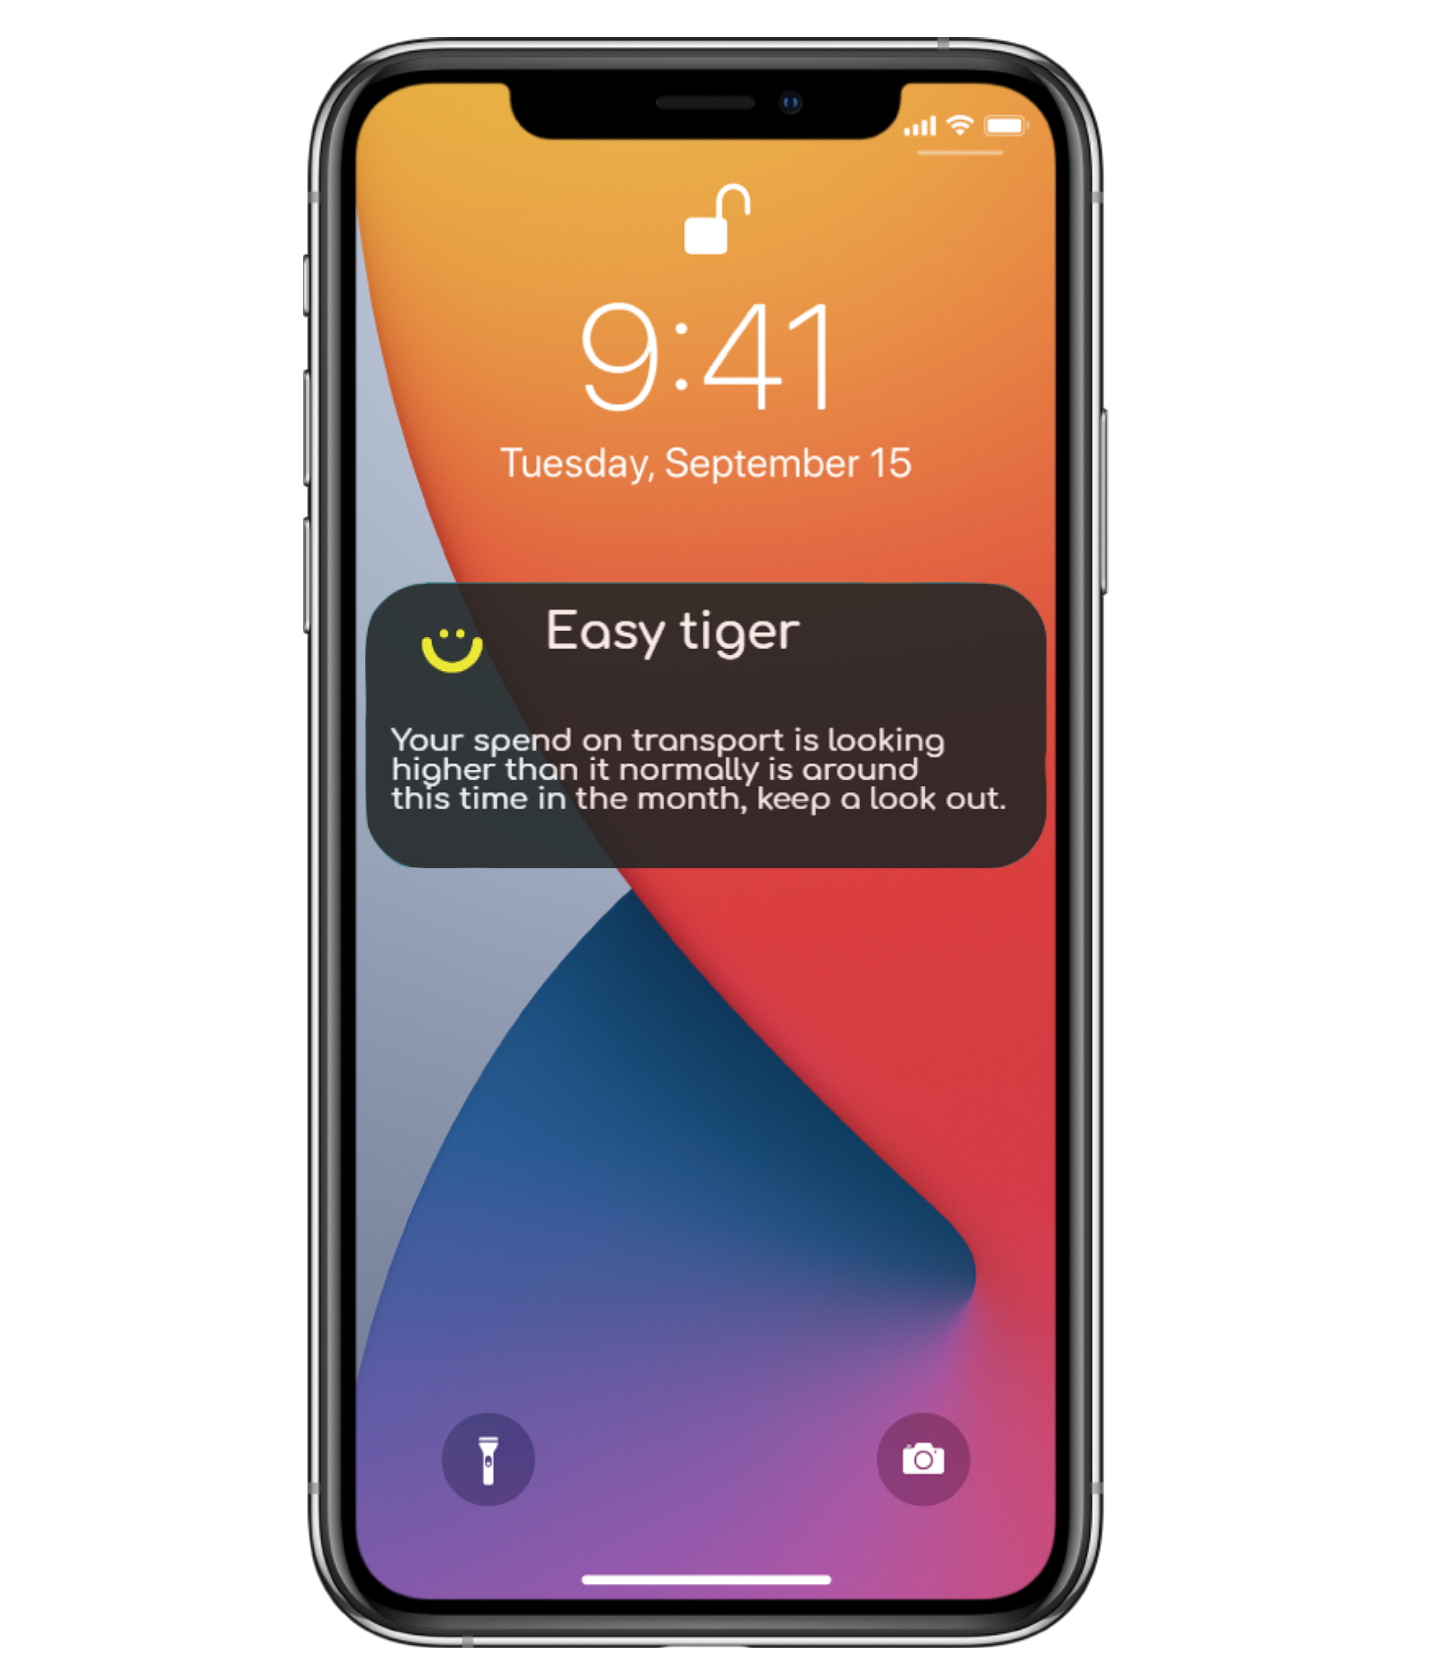
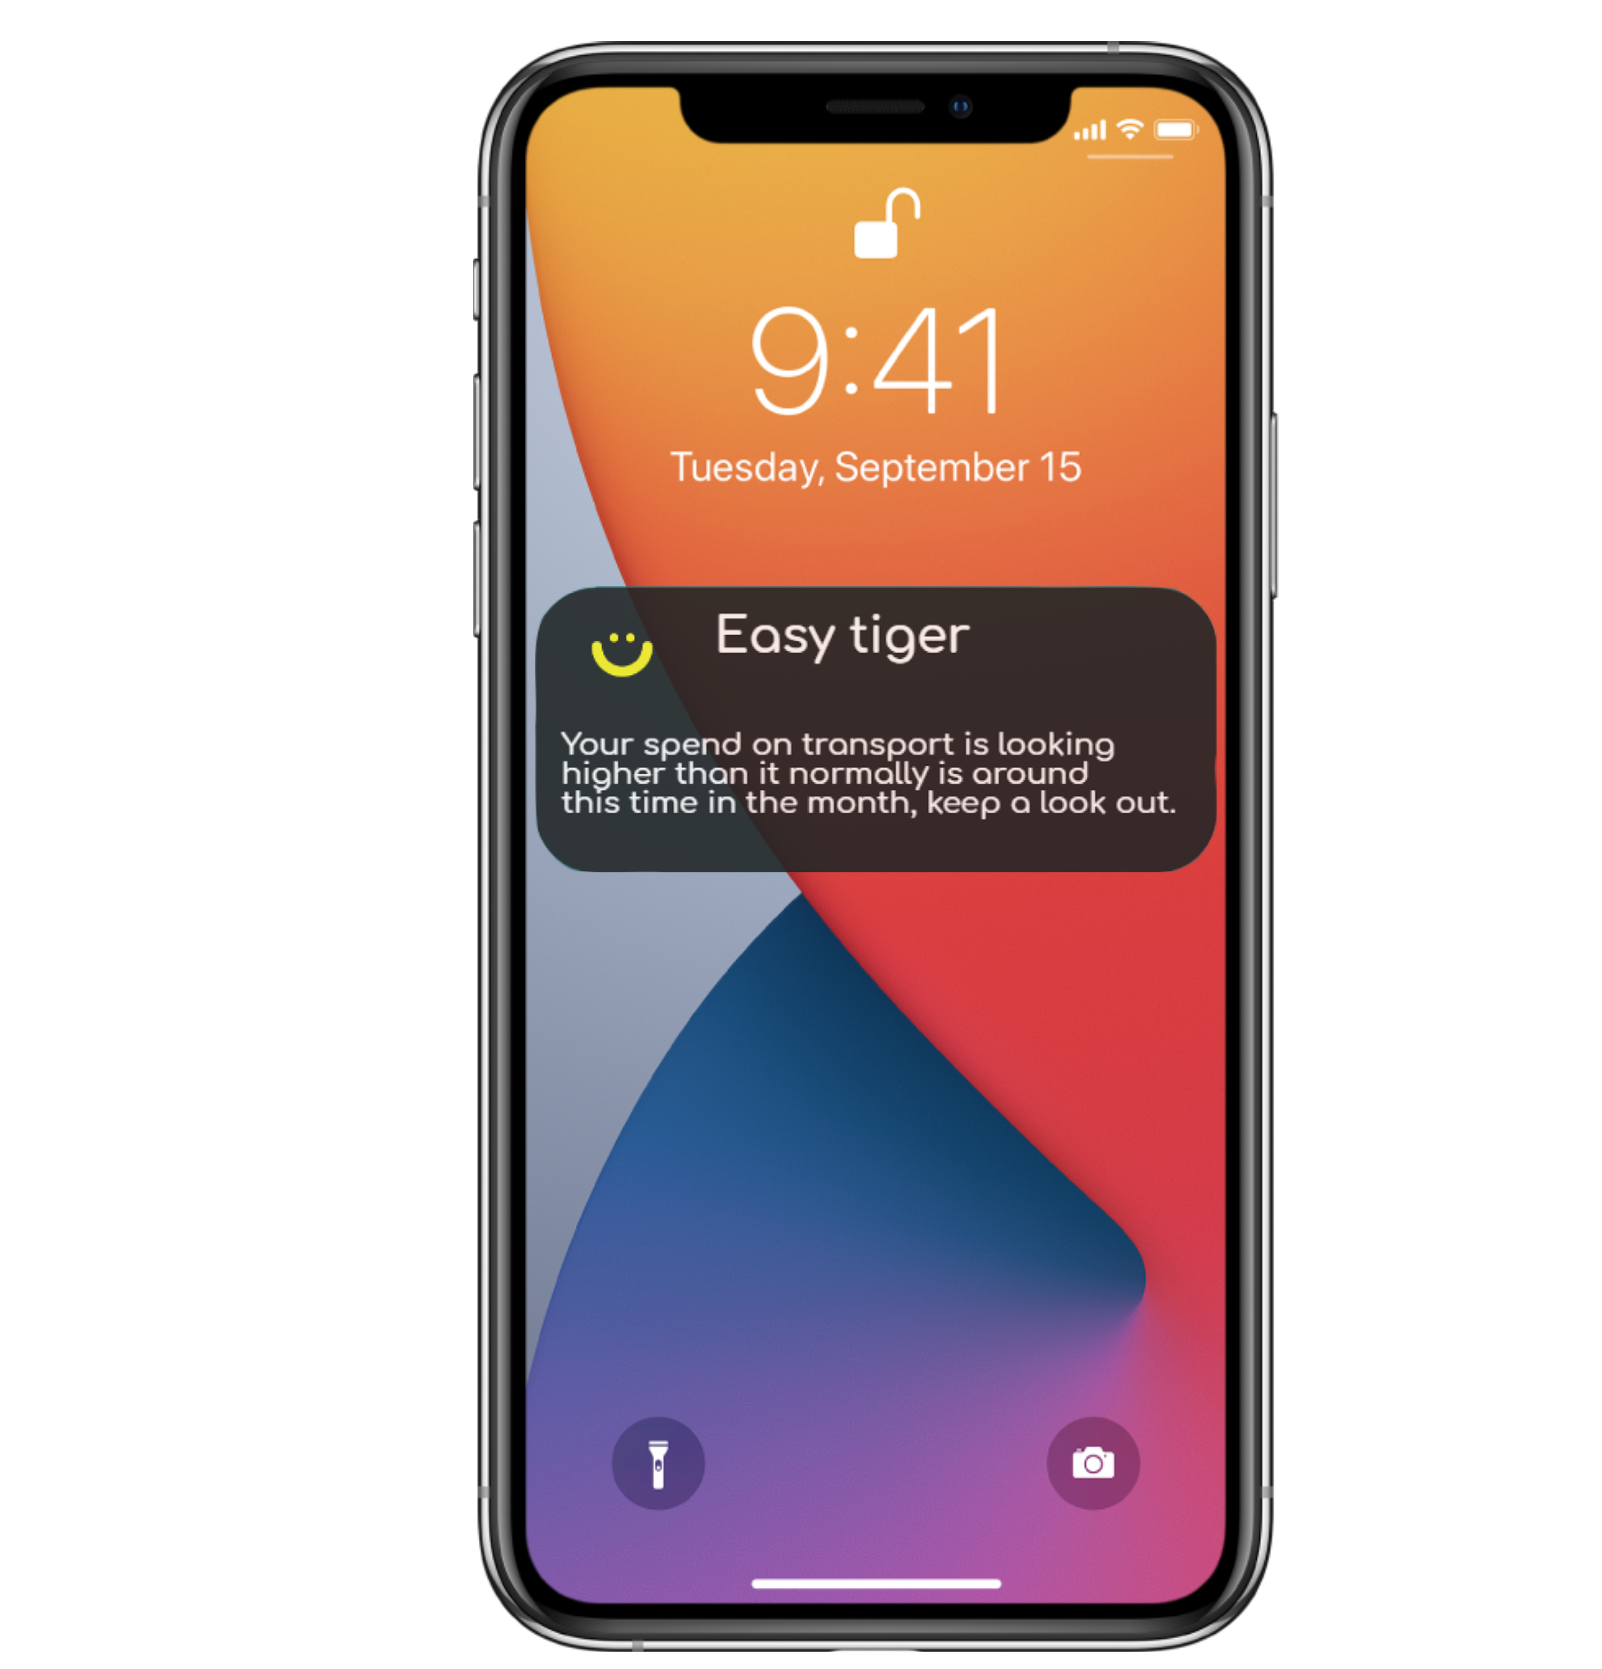
updated graphics and colours

Changed region(s): [[0.1875, 0.0, 0.8125, 0.997]]

diff --git a/index.html b/index.html
@@ -148,6 +148,30 @@
                     <!-- Card -->
                     <div class="card">
                         <div class="card-image">
+                            <i class="fas fa-chart-line fa-4x icon"></i>
+                        </div>
+                        <div class="card-body">
+                            <h5 class="card-title">Forecasts</h5>
+                            <p>Get forecasts on your spending habits powered by machine learning and AI.</p>
+                        </div>
+                    </div>
+                    <!-- end of card -->
+
+                    <!-- Card -->
+                    <div class="card">
+                        <div class="card-image">
+                            <i class="fas fa-bell fa-4x icon"></i>
+                        </div>
+                        <div class="card-body">
+                            <h5 class="card-title">Alerts and reminders</h5>
+                            <p>Get alerted when you need to hold your horses and stay within your budget</p>
+                        </div>
+                    </div>
+                    <!-- end of card -->
+
+                    <!-- Card -->
+                    <div class="card">
+                        <div class="card-image">
                             <i class="fas fa-thumbtack fa-4x icon img-fluid"></i>
                         </div>
                         <div class="card-body">
@@ -165,29 +189,6 @@
                         <div class="card-body">
                             <h5 class="card-title">Budget planner</h5>
                             <p>Simply add your own spend categories and update them as you like and we’ll take care of the rest</p>
-                        </div>
-                    </div>
-                    <!-- end of card -->
-
-                    <!-- Card -->
-                    <div class="card">
-                        <div class="card-image">
-                            <i class="fas fa-bell fa-4x icon"></i>
-                        </div>
-                        <div class="card-body">
-                            <h5 class="card-title">Alerts and reminders</h5>
-                            <p>Get alerted when you need to hold your horses and stay within your budget</p>
-                        </div>
-                    </div>
-                    <!-- end of card -->
-                     <!-- Card -->
-                     <div class="card">
-                        <div class="card-image">
-                            <i class="fas fa-chart-line fa-4x icon"></i>
-                        </div>
-                        <div class="card-body">
-                            <h5 class="card-title">Forecasts</h5>
-                            <p>Get forecasts on your spending habits powered by machine learning and AI.</p>
                         </div>
                     </div>
                     <!-- end of card -->
@@ -224,16 +225,16 @@
     <div class="basic-3">
         <div class="container">
             <div class="row">
+                <div class="col-lg-5">
+                    <div class="text-container">
+                        <h2>Get personalized tips and insights</h2>
+                        <p>Helping you spend, save and manage your money better</p>
+                    </div> <!-- end of text-container -->
+                </div> <!-- end of col -->
                 <div class="col-lg-7">
                     <div class="image-container">
                         <img class="img-fluid" src="images/images/raw/easy-tiger.png" alt="alternative">
                     </div> <!-- end of image-container -->
-                </div> <!-- end of col -->
-                <div class="col-lg-5">
-                    <div class="text-container">
-                        <h2>Get personalized tips and insights</h2>
-                        <p>Helping you spend,save and manage your money better</p>
-                    </div> <!-- end of text-container -->
                 </div> <!-- end of col -->
             </div> <!-- end of row -->
         </div> <!-- end of container -->
@@ -252,7 +253,7 @@
                 </div> <!-- end of col -->
                 <div class="col-lg-7">
                     <div class="image-container">
-                        <img class="img-fluid" src="images/images/raw/warning-msg.png" alt="alternative">
+                        <img class="img-fluid" src="images/images/raw/daily-spend.png" alt="alternative">
                     </div> <!-- end of image-container -->
                 </div> <!-- end of col -->
             </div> <!-- end of row -->
@@ -367,7 +368,7 @@
                 <div class="col-lg-6">
                     <div class="text-container">
                         <div class="text-center">
-                            <h1 class="h1-large">Get notified when KhulaMoney launches and experience...</h1>
+                            <h1 class="h1-large">Get early access to KhulaMoney and experience...</h1>
                             <br>
                             <h1 class="h1-large"><mark>#YourBestYou</mark></h1>
                             <br><br>

diff --git a/css/styles.css b/css/styles.css
@@ -178,7 +178,7 @@ mark {
 .btn-solid-lg {
 	display: inline-block;
 	padding: 1.625rem 2.75rem 1.625rem 2.75rem;
-	border: 1px solid #594cda;
+	border: 1px solid #207178;
 	border-radius: 32px;
 	background-color: #207178;
 	color: #F4EF21;
@@ -1582,7 +1582,7 @@ a:hover.back-to-top {
 
 	/* Details 2 */
 	.basic-3 .image-container {
-		margin-right: 3.5rem;
+		/* margin-right: 1rem; */
 	}
 
 	.basic-3 .text-container {
